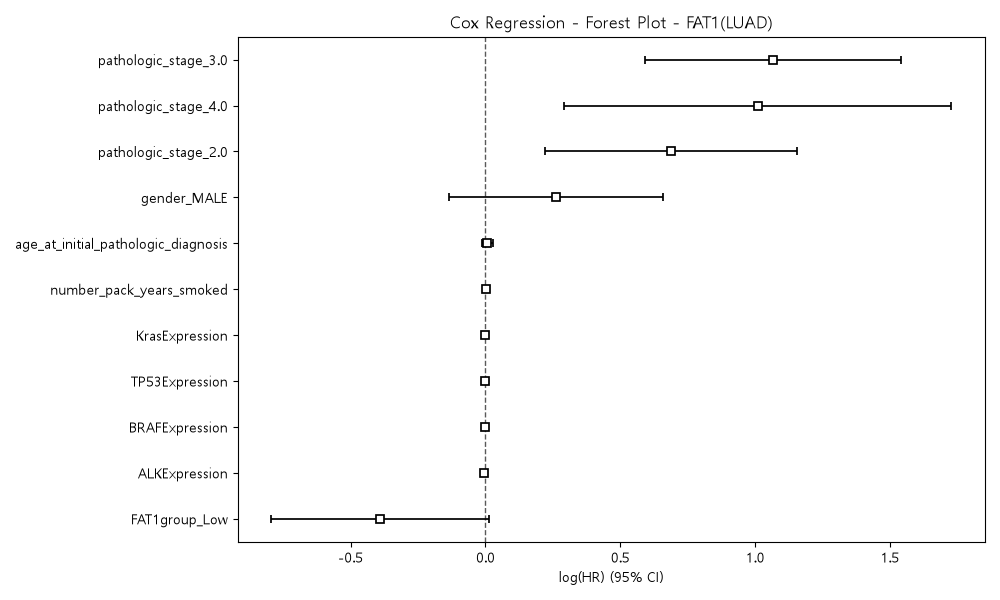
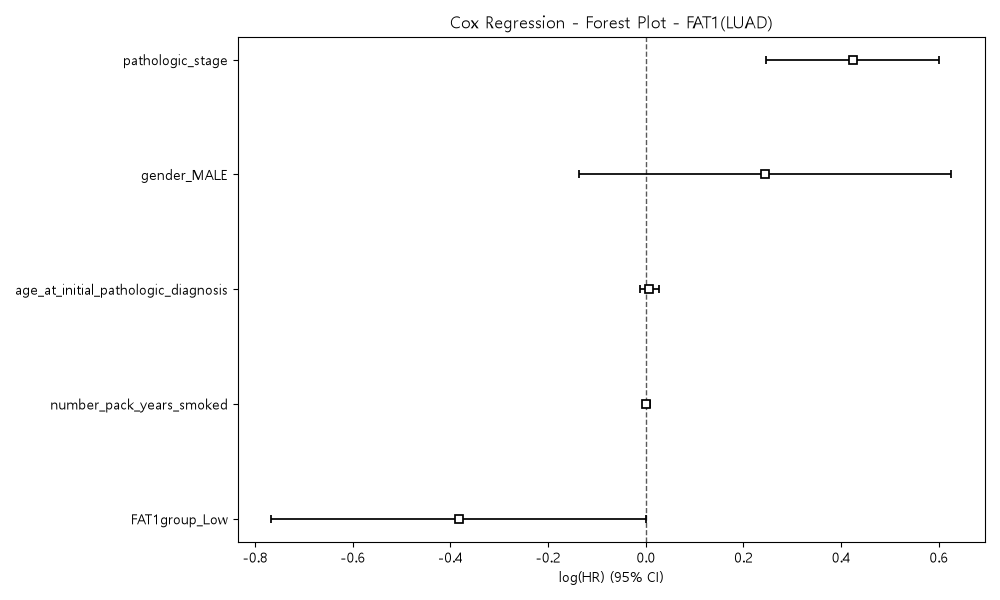
cox 결측치 제거 update

diff --git a/analysis_v2.py b/analysis_v2.py
@@ -402,40 +402,42 @@ def analyze_kaplan_meier(target, df, mode, save_dir, group_col='gene_group', plo
 
 def analyze_cox_regression(target, df, mode, save_dir, group_col='gene_group', categorical_vars=None, continuous_vars=None):
     print("--- 2-5. Cox 회귀분석 ---")
-    
-    if categorical_vars is None:
-        categorical_vars = [group_col, 'gender']
+    if categorical_vars is None: categorical_vars = [group_col, 'gender']
     if continuous_vars is None:
         age_col = 'age_at_initial_pathologic_diagnosis' if mode == "LUAD" else 'age'
         continuous_vars = [age_col, 'number_pack_years_smoked', 'pathologic_stage']
         
-    survival_cols = ['OS.time', 'OS']
-    cols = survival_cols + categorical_vars + continuous_vars
-    
+    cols = ['OS.time', 'OS'] + categorical_vars + continuous_vars
     valid_cols = [c for c in cols if c in df.columns]
-    if group_col not in valid_cols or 'OS' not in valid_cols:
-        print("  [경고] 필수 컬럼이 없어 Cox 분석을 건너뜁니다.")
-        return pd.DataFrame()
-        
-    df_cox = df[valid_cols].dropna()
     
-    if df_cox.empty:
-        print("  [경고] 결측치 제거 후 Cox 분석할 데이터가 없습니다.")
-        return pd.DataFrame()
+    # 바로 결측치를 제거하지 않고, 사본을 떠서 정제 작업을 먼저 수행
+    df_cox = df[valid_cols].copy()
+    
+    # [핵심 수술] Pandas가 결측치로 인식하지 못하는 가짜 공백 및 문자열 찌꺼기 완벽 정제
+    na_strings = ['not reported', '[not available]', 'unknown', 'na', 'n/a', '', 'none']
+    for col in valid_cols:
+        # 문자열(object) 또는 범주형 데이터일 경우에만 텍스트 검사
+        if df_cox[col].dtype == object or isinstance(df_cox[col].dtype, pd.CategoricalDtype):
+            # 1. 선생님의 아이디어: 정규식으로 완전 공백(Space) 문자열을 NaN으로 강제 치환
+            df_cox[col] = df_cox[col].replace(r'^\s*$', np.nan, regex=True)
+            # 2. 지정된 찌꺼기 텍스트를 NaN으로 치환 (대소문자 무시)
+            df_cox[col] = df_cox[col].apply(lambda x: np.nan if pd.isna(x) or str(x).strip().lower() in na_strings else x)
+    
+    # 찌꺼기가 완벽하게 NaN으로 치환된 후, 순수 데이터만 남기기
+    df_cox = df_cox.dropna()
+    
+    if df_cox.empty: return pd.DataFrame()
         
     dummy_cols = [c for c in categorical_vars if c in df_cox.columns]
     df_cox_dummy = pd.get_dummies(df_cox, columns=dummy_cols, drop_first=True)
     
     cph = CoxPHFitter()
-    
     df_table3 = pd.DataFrame()
     try:
         cph.fit(df_cox_dummy, duration_col='OS.time', event_col='OS')
-        # 콘솔 출력에도 95% CI가 보이도록 추가
         print(cph.summary[['exp(coef)', 'exp(coef) lower 95%', 'exp(coef) upper 95%', 'p']])
         
         summary = cph.summary
-        # 엑셀 표(Table 3)에 95% CI 하한선과 상한선을 논문 포맷으로 조립
         df_table3 = pd.DataFrame({
             'Clinical Variable': summary.index,
             'Hazard Ratio (HR)': summary['exp(coef)'].round(3),
@@ -444,22 +446,16 @@ def analyze_cox_regression(target, df, mode, save_dir, group_col='gene_group', c
             'P-value': summary['p'].apply(lambda x: f"{x:.3f}" if x >= 0.001 else "<0.001")
         })
         
-        plt.figure(figsize=(10, 6))
-        cph.plot()
+        plt.figure(figsize=(10, 6)); cph.plot()
         plt.title(f'Cox Regression - Forest Plot - {target}({mode})')
         plt.tight_layout()
         cox_plot_path = os.path.join(save_dir, f'{target}_{mode}_Cox.png')
-        if os.path.exists(cox_plot_path):
-            try: os.remove(cox_plot_path)
-            except: pass
-        plt.savefig(cox_plot_path)
-        plt.close()
-        print(f"Cox Forest Plot 저장 완료: '{cox_plot_path}'\n")
-        
+        plt.savefig(cox_plot_path); plt.close()
     except Exception as e:
         print(f"Cox 분석 중 오류 발생: {e}")
         
     return df_table3
+
 # =====================================================================
 # 3. 메인 실행 블록 (LUAD, LUSC 순차적 자동 실행)
 # =====================================================================
@@ -551,7 +547,7 @@ if __name__ == "__main__":
             # ==============================================================
             age_col = 'age_at_initial_pathologic_diagnosis' if mode == "LUAD" else 'age'
             glm_categorical = ['gender']
-            glm_continuous = [age_col, 'number_pack_years_smoked', 'pathologic_stage']
+            glm_continuous = [age_col, 'number_pack_years_smoked']
             
             df_table4 = analyze_glm_multivariate(
                 merged_df, mode, 

diff --git a/signature_score_analysis.py b/signature_score_analysis.py
@@ -449,7 +449,21 @@ def analyze_cox_regression(df, mode, save_dir, group_col='SignatureGroup', file_
         print("  [경고] 필수 컬럼이 없어 Cox 분석을 건너뜁니다.")
         return pd.DataFrame()
         
-    df_cox = df[valid_cols].dropna()
+    # 바로 결측치를 제거하지 않고, 사본을 떠서 정제 작업을 먼저 수행
+    df_cox = df[valid_cols].copy()
+    
+    # [핵심 수술] Pandas가 결측치로 인식하지 못하는 가짜 공백 및 문자열 찌꺼기 완벽 정제
+    na_strings = ['not reported', '[not available]', 'unknown', 'na', 'n/a', '', 'none']
+    for col in valid_cols:
+        # 문자열(object) 또는 범주형 데이터일 경우에만 텍스트 검사
+        if df_cox[col].dtype == object or isinstance(df_cox[col].dtype, pd.CategoricalDtype):
+            # 1. 선생님의 아이디어: 정규식으로 완전 공백(Space) 문자열을 NaN으로 강제 치환
+            df_cox[col] = df_cox[col].replace(r'^\s*$', np.nan, regex=True)
+            # 2. 지정된 찌꺼기 텍스트를 NaN으로 치환 (대소문자 무시)
+            df_cox[col] = df_cox[col].apply(lambda x: np.nan if pd.isna(x) or str(x).strip().lower() in na_strings else x)
+    
+    # 찌꺼기가 완벽하게 NaN으로 치환된 후, 순수 데이터만 남기기
+    df_cox = df_cox.dropna()
     
     if df_cox.empty:
         print("  [경고] 결측치 제거 후 Cox 분석할 데이터가 없습니다.")
